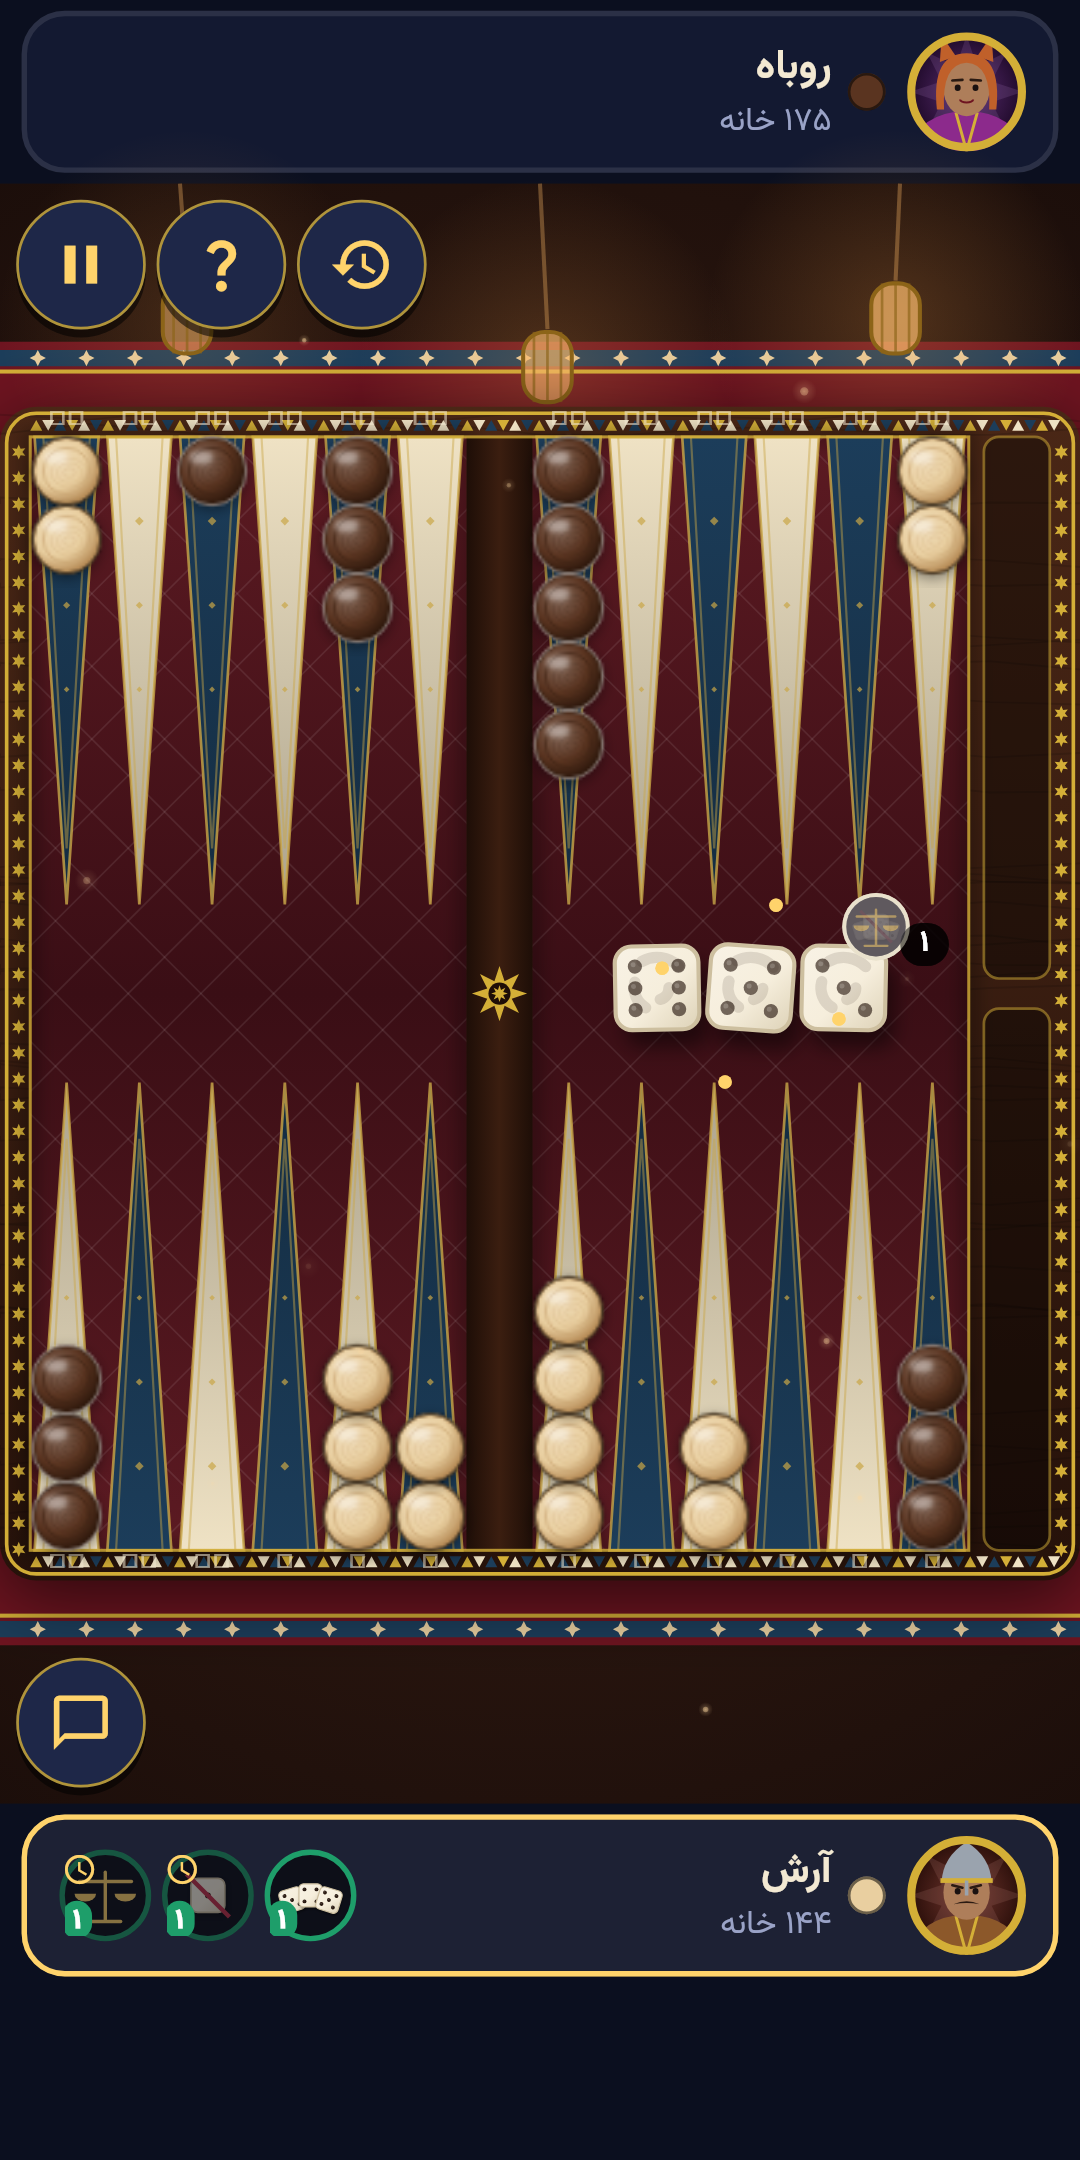
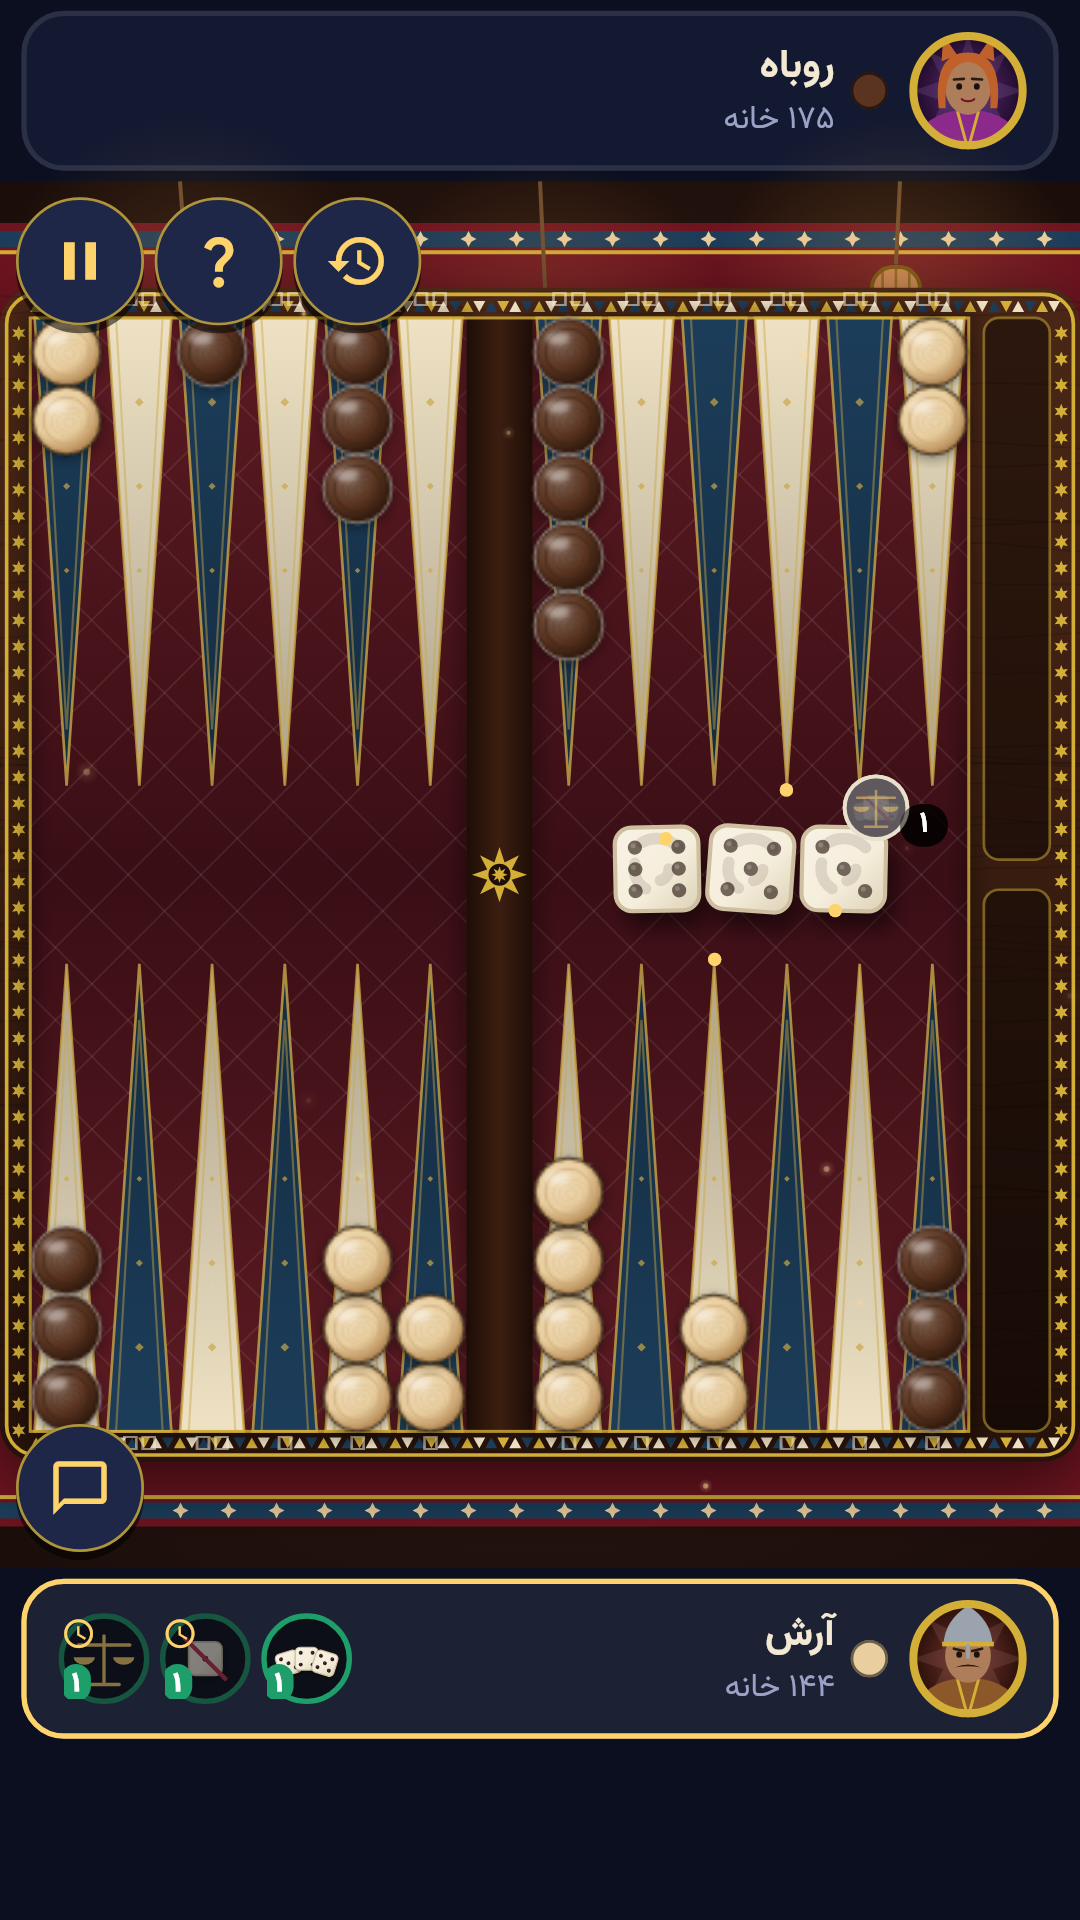
Store images in 16:9: screenshots 1080x1920, captioned previews in portrait (1080x1920) and landscape (1920x1080)
Claude-Session: https://claude.ai/code/session_01KqpCz4A5zFq8JxkwKa8zxX

diff --git a/tool/store_assets_test.dart b/tool/store_assets_test.dart
@@ -1,7 +1,8 @@
 // Renders the store listing graphics into docs/store/:
 //   flutter test tool/store_assets_test.dart
 // * icon-512.png (Play Store icon), feature-graphic.png (1024×500)
-// * screenshots/*.png — Persian phone screenshots at 1080×2160 (2:1).
+// * screenshots/*.png — Persian phone screenshots at 1080×1920 (9:16).
+// * previews/ (1080×1920) and previews_landscape/ (1920×1080): captioned.
 import 'dart:io';
 import 'dart:ui' as ui;
 
@@ -149,7 +150,7 @@ Future<void> _shot(WidgetTester t, String name) async {
   await t.runAsync(() async {
     final ro = t.renderObject<RenderRepaintBoundary>(find.byKey(_boundary));
     await _save(
-      await ro.toImage(pixelRatio: 2.7),
+      await ro.toImage(pixelRatio: 1080 / 405),
       '$out/screenshots/$name.png',
     );
   });
@@ -170,7 +171,7 @@ void main() {
   });
 
   Future<void> phone(WidgetTester t) async {
-    const size = Size(400, 800);
+    const size = Size(405, 720);
     await t.binding.setSurfaceSize(size);
     t.view.devicePixelRatio = 1;
     t.view.physicalSize = size;
@@ -310,86 +311,109 @@ void main() {
         if (!file.existsSync()) continue;
         final codec = await ui.instantiateImageCodec(file.readAsBytesSync());
         final shot = (await codec.getNextFrame()).image;
-        await _canvas('$out/previews/${e.key}.png', 1080, 2160, (c, s) {
-          final rect = Offset.zero & s;
-          c.drawRect(
-            rect,
-            Paint()
-              ..shader = ui.Gradient.linear(
-                Offset.zero,
-                Offset(0, s.height),
-                const [Color(0xFF2A2468), Color(0xFF0B0F1F)],
-              ),
+        for (final landscape in [false, true]) {
+          await _canvas(
+            landscape
+                ? '$out/previews_landscape/${e.key}.png'
+                : '$out/previews/${e.key}.png',
+            landscape ? 1920 : 1080,
+            landscape ? 1080 : 1920,
+            (c, s) => _preview(c, s, shot, e.value, landscape: landscape),
           );
-          final lattice = Paint()..color = const Color(0x12FFD36B);
-          for (var x = 0; x < 6; x++) {
-            for (var y = 0; y < 4; y++) {
-              BoardArt.star(
-                c,
-                Offset(x * 216.0 + (y.isOdd ? 108 : 0), y * 130.0 + 40),
-                30,
-                8,
-                lattice,
-              );
-            }
-          }
-          _text(
-            c,
-            e.value[0],
-            Offset(s.width / 2, 170),
-            104,
-            const Color(0xFFFFD36B),
-          );
-          _text(
-            c,
-            e.value[1],
-            Offset(s.width / 2, 300),
-            46,
-            const Color(0xFFF3E9D2),
-            family: 'Vazirmatn',
-          );
-          // The screenshot in a rounded "phone" with a gold rim.
-          const top = 400.0;
-          final h = s.height - top - 50;
-          final w = h / 2;
-          final frame = RRect.fromRectAndRadius(
-            Rect.fromLTWH((s.width - w) / 2, top, w, h),
-            const Radius.circular(48),
-          );
-          c
-            ..drawRRect(
-              frame.inflate(14),
-              Paint()
-                ..color = const Color(0x66FFB347)
-                ..maskFilter = const MaskFilter.blur(BlurStyle.normal, 30),
-            )
-            ..drawRRect(
-              frame.inflate(10),
-              Paint()..color = const Color(0xFF15122A),
-            )
-            ..save()
-            ..clipRRect(frame)
-            ..drawImageRect(
-              shot,
-              Rect.fromLTWH(
-                0,
-                0,
-                shot.width.toDouble(),
-                shot.height.toDouble(),
-              ),
-              frame.outerRect,
-              Paint()..filterQuality = FilterQuality.high,
-            )
-            ..restore()
-            ..drawRRect(
-              frame.inflate(10),
-              Paint()
-                ..color = const Color(0xFFD4AF37)
-                ..style = PaintingStyle.stroke
-                ..strokeWidth = 5,
-            );
-        });
+        }
       }
     });
   });
 }
+
+/// A captioned store image: the screenshot in a gold-rimmed "phone" and a
+/// big Persian title (above it in portrait, beside it in landscape).
+void _preview(
+  Canvas c,
+  Size s,
+  ui.Image shot,
+  List<String> caption, {
+  required bool landscape,
+}) {
+  final rect = Offset.zero & s;
+  c.drawRect(
+    rect,
+    Paint()
+      ..shader = ui.Gradient.linear(
+        Offset.zero,
+        Offset(landscape ? s.width : 0, s.height),
+        const [Color(0xFF2A2468), Color(0xFF0B0F1F)],
+      ),
+  );
+  final lattice = Paint()..color = const Color(0x12FFD36B);
+  for (var x = 0; x < (s.width / 216).ceil() + 1; x++) {
+    for (var y = 0; y < (s.height / 260).ceil() + 1; y++) {
+      BoardArt.star(
+        c,
+        Offset(x * 216.0 + (y.isOdd ? 108 : 0), y * 260.0 + 40),
+        30,
+        8,
+        lattice,
+      );
+    }
+  }
+  final Rect phone;
+  if (landscape) {
+    const pad = 70.0;
+    final h = s.height - pad * 2;
+    final w = h * 9 / 16;
+    phone = Rect.fromLTWH(180, pad, w, h);
+    final cx = phone.right + (s.width - phone.right) / 2;
+    _text(c, caption[0], Offset(cx, s.height / 2 - 80), 120, gold);
+    _text(
+      c,
+      caption[1],
+      Offset(cx, s.height / 2 + 70),
+      50,
+      ivory,
+      family: 'Vazirmatn',
+    );
+  } else {
+    _text(c, caption[0], Offset(s.width / 2, 150), 100, gold);
+    _text(
+      c,
+      caption[1],
+      Offset(s.width / 2, 270),
+      44,
+      ivory,
+      family: 'Vazirmatn',
+    );
+    const top = 360.0;
+    final h = s.height - top - 50;
+    final w = h * 9 / 16;
+    phone = Rect.fromLTWH((s.width - w) / 2, top, w, h);
+  }
+  final frame = RRect.fromRectAndRadius(phone, const Radius.circular(44));
+  c
+    ..drawRRect(
+      frame.inflate(14),
+      Paint()
+        ..color = const Color(0x66FFB347)
+        ..maskFilter = const MaskFilter.blur(BlurStyle.normal, 30),
+    )
+    ..drawRRect(frame.inflate(10), Paint()..color = const Color(0xFF15122A))
+    ..save()
+    ..clipRRect(frame)
+    ..drawImageRect(
+      shot,
+      Rect.fromLTWH(0, 0, shot.width.toDouble(), shot.height.toDouble()),
+      phone,
+      Paint()..filterQuality = FilterQuality.high,
+    )
+    ..restore()
+    ..drawRRect(
+      frame.inflate(10),
+      Paint()
+        ..color = const Color(0xFFD4AF37)
+        ..style = PaintingStyle.stroke
+        ..strokeWidth = 5,
+    );
+}
+
+const Color gold = Color(0xFFFFD36B);
+const Color ivory = Color(0xFFF3E9D2);

diff --git a/docs/RELEASE.md b/docs/RELEASE.md
@@ -31,7 +31,7 @@ Switching from the CI key to a real key requires uninstalling the old build once
 3. **Store page:** `docs/store/` has everything:
    - `listing_fa.md` and `listing_en.md`: name, short and full description, category, rating.
    - `icon-512.png` and `feature-graphic.png` (1024×500).
-   - `screenshots/`: six Persian phone shots, 1080×2160.
+   - `screenshots/`: eight Persian phone shots, 1080×1920 (9:16); `previews/` (1080×1920) and `previews_landscape/` (1920×1080, 16:9) are the captioned store versions.
    - `privacy.md`: a privacy policy to host and link (no data collected).
    - Re-render the graphics with `flutter test tool/store_assets_test.dart`.
 4. **Content rating questionnaire:** no violence, no real-money gambling (cards are a game mechanic, no purchases with money), no user data.
